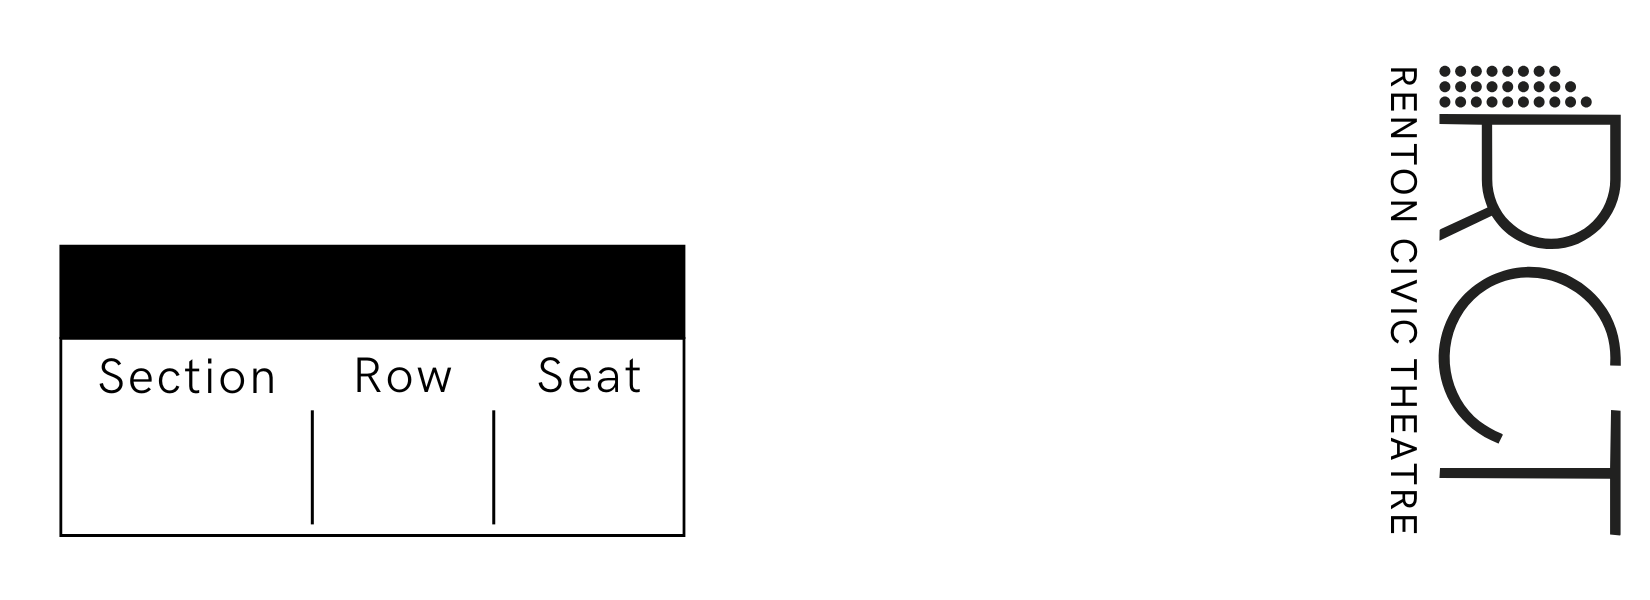
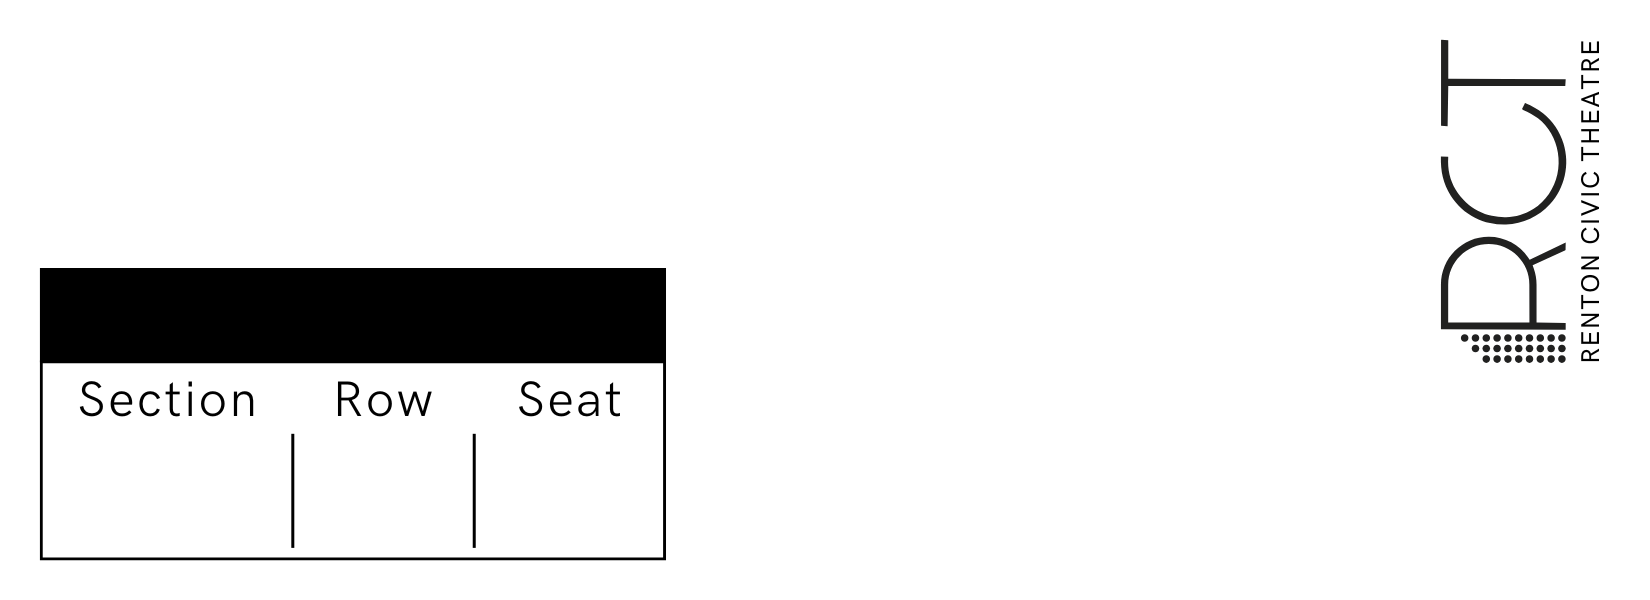
Use the new ticket layout

Changed region(s): [[0.0, 0.39, 0.4327, 0.9], [0.8345, 0.06, 0.9891, 0.9], [0.0309, 0.93, 0.4018, 0.96]]

diff --git a/index.ts b/index.ts
@@ -31,7 +31,7 @@ export interface TicketRequestBody {
 export function getShowAbbreviation(showName: string): string {
   // Simple implementation - convert to lowercase and remove spaces
   // You might want to implement a more sophisticated mapping based on your needs
-  return showName.toLowerCase().replace(/\s+/g, "-").replaceAll(/[,':\.]/g, "")
+  return showName.toLowerCase().replace(/\s+/g, "-").replaceAll(/[!\?,':\.]/g, "")
 }
 
 // Font loader utility to register custom fonts
@@ -103,39 +103,45 @@ app.post("/", async (req: Request, res: Response) => {
       // Load show title image
       const showAbbrev = getShowAbbreviation(ticket.show)
 
-      const dateY = await loadImage(`img/title-images/${showAbbrev}.png`).then(async (titleImage: Image) => {
-        // Draw title image at specified coordinates (59, 45)
-        ctx.drawImage(titleImage, 59, 45)
+      // Fallback to text title
+      ctx.fillStyle = "#000000"
+      ctx.font = "500 70px HankenGrotesk"
+      ctx.textAlign = "left"
 
-        // Calculate position for date (50px below the bottom of the title image)
-        return 45 + titleImage.height + 50;
-      }).catch(() => {
-        // Fallback to text title
-        ctx.fillStyle = "#000000"
-        ctx.font = "500 70px HankenGrotesk"
-        ctx.textAlign = "left"
+      const titleText = ticket.show
+      let maxWidth = 700
+      let fontSize = 70
+      let textMetrics = ctx.measureText(titleText)
+      let textWidth = textMetrics.width
 
-        const titleText = ticket.show
-        const maxWidth = 700
-        let fontSize = 70
-        let textMetrics = ctx.measureText(titleText)
-        let textWidth = textMetrics.width
+      // Reduce font size if text is too wide
+      while (textWidth > maxWidth && fontSize > 50) {
+        fontSize -= 2
+        ctx.font = `500 ${fontSize}px HankenGrotesk`
+        textMetrics = ctx.measureText(titleText)
+        textWidth = textMetrics.width
+      }
 
-        // Reduce font size if text is too wide
-        while (textWidth > maxWidth && fontSize > 50) {
-          fontSize -= 2
-          ctx.font = `500 ${fontSize}px HankenGrotesk`
-          textMetrics = ctx.measureText(titleText)
-          textWidth = textMetrics.width
+      let textHeight = Math.abs(textMetrics.actualBoundingBoxAscent) + Math.abs(textMetrics.actualBoundingBoxDescent);
+      ctx.fillText(ticket.show, 38, 20 + fontSize, 700)
+
+      // default to set y offset for text show names
+      const dateY = 20 + fontSize + 10 + 32;
+
+      await loadImage(`img/logos/${showAbbrev}.png`).then(async (logoImage: Image) => {
+        let w, h;
+        if (logoImage.height > logoImage.width) {
+          h = 600 - 60;
+          w = logoImage.width * (h / logoImage.height);
+        } else {
+          w = 600 - 60;
+          h = logoImage.height * (w / logoImage.width);
         }
 
-        const textHeight = Math.abs(textMetrics.actualBoundingBoxAscent) + Math.abs(textMetrics.actualBoundingBoxDescent);
-        console.log(textHeight);
+        let x = 1032 - w/2;
+        let y = 600 / 2 - h/2;
 
-        ctx.fillText(ticket.show, 59, 45 + textHeight, 700)
-
-        // default to set y offset for text show names
-        return 45 + textHeight + 10 + 32;
+        ctx.drawImage(logoImage, x, y, w, h);
       });
 
       // Draw date with specified styling
@@ -145,9 +151,9 @@ app.post("/", async (req: Request, res: Response) => {
 
       // Handle text wrapping if needed
       const dateText = ticket.dateTime
-      const maxWidth = 700
-      let fontSize = 32
-      let textWidth = ctx.measureText(dateText).width
+      maxWidth = 700
+      fontSize = 32
+      textWidth = ctx.measureText(dateText).width
 
       // Reduce font size if text is too wide
       while (textWidth > maxWidth && fontSize > 12) {
@@ -156,7 +162,15 @@ app.post("/", async (req: Request, res: Response) => {
         textWidth = ctx.measureText(dateText).width
       }
 
-      ctx.fillText(dateText, 59, dateY, maxWidth)
+      ctx.fillText(dateText, 38, dateY, maxWidth)
+      let contactAndLocationText = "Renton Civic Theatre\n507 S Third St, Renton, WA 98507\nboxoffice@rentoncivictheatre.org | (425) 226-5529";
+
+      ctx.font = `350 26px HankenGrotesk`;
+
+      textMetrics = ctx.measureText(contactAndLocationText)
+      textHeight = Math.abs(textMetrics.actualBoundingBoxAscent) + Math.abs(textMetrics.actualBoundingBoxDescent);
+
+      ctx.fillText(contactAndLocationText, 38, 268 - textHeight + 10, 700);
 
       // Draw attendee name
       ctx.fillStyle = "#FFFFFF" // White text
@@ -176,19 +190,19 @@ app.post("/", async (req: Request, res: Response) => {
         nameTextWidth = ctx.measureText(nameText).width
       }
 
-      ctx.fillText(nameText, 372, 307, nameMaxWidth)
+      ctx.fillText(nameText, 372 - 19, 307 + 25, nameMaxWidth)
 
       // Draw section
       ctx.fillStyle = "#000000" // Black text
       ctx.font = "500 70px HankenGrotesk"
       ctx.textAlign = "center"
-      ctx.fillText(ticket.section, 187, 490)
+      ctx.fillText(ticket.section, 187 - 19, 490 + 25)
 
       // Draw row
-      ctx.fillText(ticket.row, 402, 490)
+      ctx.fillText(ticket.row, 402 - 19, 490 + 25)
 
       // Draw seat
-      ctx.fillText(ticket.seat, 589, 490)
+      ctx.fillText(ticket.seat, 589 - 19, 490 + 25)
 
       // Special note for subscribers with GA section
       if (ticket.isSubscriber && ticket.section === "GA") {
@@ -211,14 +225,14 @@ app.post("/", async (req: Request, res: Response) => {
         ctx.fillStyle = "#000000"
         ctx.font = "350 25px HankenGrotesk"
         ctx.textAlign = "center"
-        ctx.fillText("Thank you for being a subscriber!", 372, 570)
+        ctx.fillText("Thank you for being a subscriber!", 372 - 19, 570 + 18)
       }
 
       // Draw QR code
       const qrDataUrl = await generateQRCode({
         data: ticket.ticketId,
-        width: 477,
-        height: 477,
+        width: 180,
+        height: 180,
         dotsOptions: {
           color: "#000000",
           type: "rounded",
@@ -231,7 +245,14 @@ app.post("/", async (req: Request, res: Response) => {
 
       loadImage(qrDataUrl).then(async (qrImage: Image) => {
         const outputFilepath = `./img/generated-tickets/${ticket.ticketId}.png`;
-        ctx.drawImage(qrImage, 811, 60, 477, 477)
+        ctx.drawImage(qrImage, 1650 - 40 - 180, 600 - 40 - 180, 180, 180)
+
+        ctx.textAlign = 'center';
+        ctx.textBaseline = 'middle';
+        ctx.translate(1650-40-180-20, 600-40-180/2)
+        ctx.rotate(-90 * Math.PI / 180);
+        ctx.font = "350 37px HankenGrotesk"
+        ctx.fillText(ticket.ticketId, 0, 0, 170)
 
         const out = createWriteStream(outputFilepath);
         const stream = canvas.createPNGStream();
@@ -255,6 +276,7 @@ app.listen(port, () => {
 });
 
 export async function directPrint(filePath: string) {
+  return;
   // Get printer configuration
   const printerConfig = getPrinterConfig()
 
